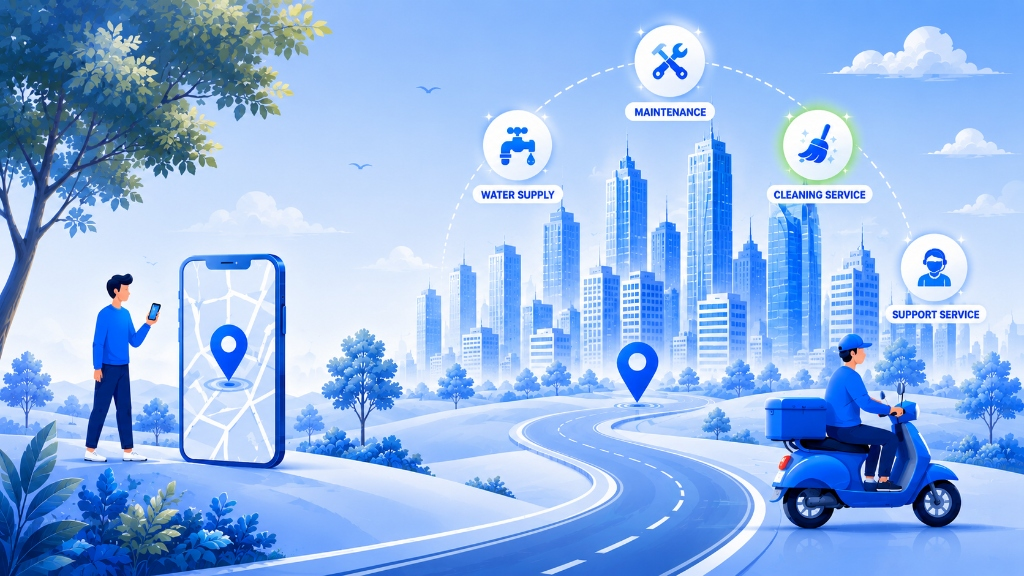
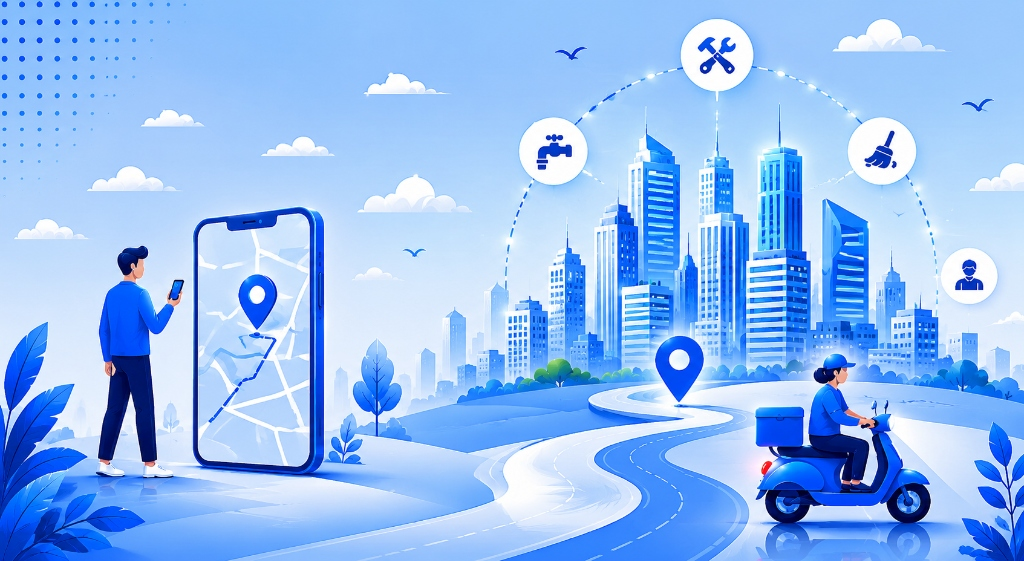
style: replace auth-bg.jpg with latest premium illustration and update styling to cover & center

diff --git a/src/pages/Login.jsx b/src/pages/Login.jsx
@@ -135,7 +135,11 @@ function Login() {
     <div style={{ 
       minHeight: "100vh", 
       display: "flex", 
-      flexDirection: "column"
+      flexDirection: "column", 
+      backgroundImage: `url(${authBg})`, 
+      backgroundSize: "cover", 
+      backgroundPosition: "center", 
+      backgroundRepeat: "no-repeat" 
     }}>
       <Navbar />
 
@@ -145,11 +149,7 @@ function Login() {
           display: "flex",
           justifyContent: "center",
           alignItems: "center",
-          padding: "20px",
-          backgroundImage: `url(${authBg})`, 
-          backgroundSize: "cover", 
-          backgroundPosition: "center", 
-          backgroundRepeat: "no-repeat"
+          padding: "20px"
         }}
       >
         <div
@@ -300,21 +300,6 @@ function Login() {
 
         </div>
       </div>
-
-      {/* Modern Footer */}
-      <footer
-        style={{
-          textAlign: "center",
-          padding: "24px",
-          color: "var(--text-secondary)",
-          fontSize: "14px",
-          backgroundColor: "var(--bg-card)",
-          borderTop: "1px solid var(--border-color)",
-          fontWeight: 500
-        }}
-      >
-        © 2026 Workzy Inc. All rights reserved. Made with ❤ by PS-152 Team.
-      </footer>
 
       {/* Spinner animation */}
       <style>{`

diff --git a/src/pages/Signup.jsx b/src/pages/Signup.jsx
@@ -101,7 +101,11 @@ function Signup() {
     <div style={{ 
       minHeight: "100vh", 
       display: "flex", 
-      flexDirection: "column"
+      flexDirection: "column", 
+      backgroundImage: `url(${authBg})`, 
+      backgroundSize: "cover", 
+      backgroundPosition: "center", 
+      backgroundRepeat: "no-repeat" 
     }}>
       <Navbar />
 
@@ -111,11 +115,7 @@ function Signup() {
           display: "flex",
           justifyContent: "center",
           alignItems: "center",
-          padding: "20px",
-          backgroundImage: `url(${authBg})`, 
-          backgroundSize: "cover", 
-          backgroundPosition: "center", 
-          backgroundRepeat: "no-repeat"
+          padding: "20px"
         }}
       >
         <div
@@ -318,21 +318,6 @@ function Signup() {
           </p>
         </div>
       </div>
-
-      {/* Modern Footer */}
-      <footer
-        style={{
-          textAlign: "center",
-          padding: "24px",
-          color: "var(--text-secondary)",
-          fontSize: "14px",
-          backgroundColor: "var(--bg-card)",
-          borderTop: "1px solid var(--border-color)",
-          fontWeight: 500
-        }}
-      >
-        © 2026 Workzy Inc. All rights reserved. Made with ❤ by PS-152 Team.
-      </footer>
     </div>
   );
 }
